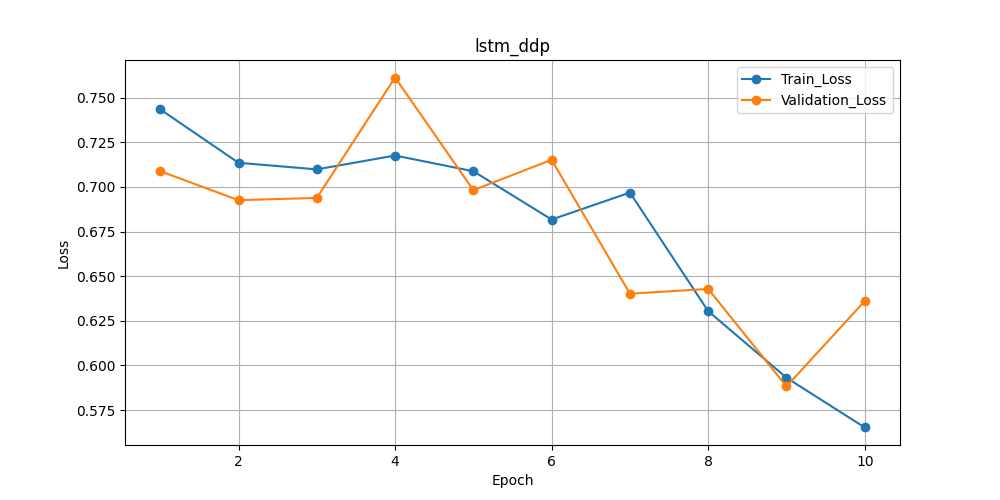
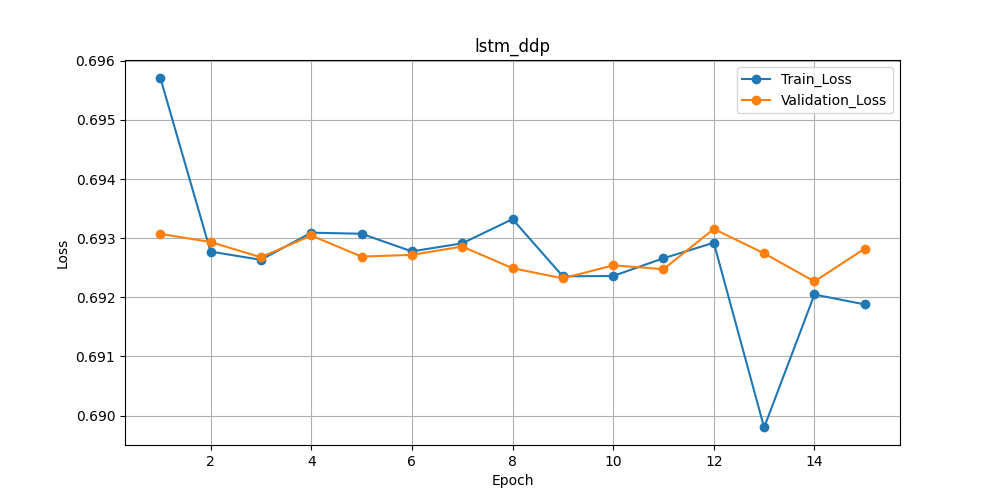
add rmsprop & max_len

diff --git a/2024-03-22/train.py b/2024-03-22/train.py
@@ -10,10 +10,9 @@ from torch.utils.data import DataLoader, DistributedSampler
 
 from torchtext.data.utils import get_tokenizer
 from nltk import word_tokenize
-from torch.nn.utils.rnn import pad_sequence
 
 from torch.nn import CrossEntropyLoss
-from torch.optim import SGD, Adam
+from torch.optim import SGD, Adam, RMSprop
 from torch.optim.lr_scheduler import StepLR, CosineAnnealingLR
 from tqdm import tqdm
 
@@ -24,7 +23,8 @@ parser = argparse.ArgumentParser()
 # -- hyperparameter about data
 parser.add_argument("--data_path", type=str, default="../../datasets/IMDB/")
 parser.add_argument("--tokenizer", type=str, default='nltk')
-parser.add_argument("--vocab_size", type=int, default=40000)
+parser.add_argument("--vocab_size", type=int, default=10000)
+parser.add_argument("--max_len", type=int, default=500)
 parser.add_argument("--ratio", type=float, default=0.2)
 
 # -- hyperparameter about ddp &amp
@@ -64,13 +64,6 @@ def plot_loss(train_losses, val_losses):
     plt.grid()
     plt.savefig(f'./result/{title}.png')
 
-# batch 내의 모든 text 데이터 길이를 동일한 길이로 padding
-def collate_fn(batch):
-    text, label = zip(*batch)
-    padded_text = pad_sequence(text, batch_first=True, padding_value=0)
-    label = torch.tensor(label, dtype=torch.long)
-    return padded_text, label
-
 # tokenizer type 설정
 def tokenizer_type():
     if args.tokenizer == 'torchtext':
@@ -85,6 +78,8 @@ def get_optimizer():
         return SGD
     elif args.optimizer == 'Adam':
         return Adam
+    elif args.optimizer == 'RMSprop':
+        return RMSprop
     else:
         raise ValueError(args.optimizer)
 
@@ -101,7 +96,7 @@ def main():
     device = torch.device("cuda" if torch.cuda.is_available() else "cpu")
     
     # IMDBDataset
-    dataset = IMDBDataset(args.data_path, tokenizer=tokenizer_type(), vocab_size=args.vocab_size)
+    dataset = IMDBDataset(args.data_path, tokenizer=tokenizer_type(), vocab_size=args.vocab_size, max_len=args.max_len)
     train_dataset, val_dataset  = dataset.split_dataset(ratio=args.ratio)
     vocab_size = len(dataset.vocab)
     
@@ -118,9 +113,9 @@ def main():
     
     # define the dataloader
     train_loader, val_loader = DataLoader(train_dataset, batch_size=args.batch_size, sampler=train_sampler, 
-                                          shuffle=(not args.is_ddp), num_workers=4, pin_memory=True, collate_fn=collate_fn), \
+                                          shuffle=(not args.is_ddp), num_workers=4, pin_memory=True), \
                                DataLoader(val_dataset, batch_size=args.batch_size, 
-                                          shuffle=False, num_workers=4, pin_memory=True, collate_fn=collate_fn)
+                                          shuffle=False, num_workers=4, pin_memory=True)
 
     # define the model instance
     net = SentenceClassifier(vocab_size, hidden_size=args.hidden_size, embed_size=args.embed_size, n_layers=args.n_layers, 

diff --git a/2024-03-22/data.py b/2024-03-22/data.py
@@ -1,5 +1,6 @@
 import os
 import torch
+import numpy as np
 import pandas as pd
 
 from collections import Counter
@@ -7,9 +8,8 @@ from torchtext.data.utils import get_tokenizer
 from torch.utils.data import Dataset, random_split
 from torchtext.vocab import build_vocab_from_iterator
 
-
 class IMDBDataset(Dataset):
-    def __init__(self, root, tokenizer, vocab_size, train=True):
+    def __init__(self, root, tokenizer, vocab_size, max_len, train=True):
         super().__init__()
         
         # setting
@@ -31,6 +31,8 @@ class IMDBDataset(Dataset):
             tokenized_sent = self.tokenizer(sent) # 문장을 tokenize
             encoded_sent = self.vocab(tokenized_sent) # vocab을 통해 encoding된 리스트 반환
             text_data.append(encoded_sent)
+        text_data = self._pad_sequence(text_data, max_len)
+        
         self.text_data = text_data
         
         # label 데이터
@@ -63,6 +65,16 @@ class IMDBDataset(Dataset):
         vocab.set_default_index(vocab["<unk>"])
         return vocab
 
+    def _pad_sequence(self, text, max_len):
+        if max_len is None:
+            max_len = max([len(sent) for sent in text])
+        
+        features = np.zeros((len(text), max_len), dtype=int)
+        for i, sent in enumerate(text):
+            if len(sent) != 0:
+                features[i, :len(sent)] = np.array(sent)[:max_len]
+        return features
+    
     # train과 validation 데이터셋을 ratio만큼 분할 (8:2)
     def split_dataset(self, ratio=0.2):
         data_size = len(self)

diff --git a/2024-03-22/test.py b/2024-03-22/test.py
@@ -7,7 +7,7 @@ from torch.utils.data import DataLoader
 
 from data import IMDBDataset
 from net import SentenceClassifier  # 이미 정의된 모델 클래스 사용
-from train import collate_fn, tokenizer_type
+from train import tokenizer_type
 
 parser = argparse.ArgumentParser()
 # -- path setting
@@ -17,7 +17,8 @@ parser.add_argument("--pth_name", type=str, default="lstm_ddp")
 
 # -- data setting
 parser.add_argument("--tokenizer", type=str, default='torchtext')
-parser.add_argument("--vocab_size", type=int, default=40000)
+parser.add_argument("--vocab_size", type=int, default=10000)
+parser.add_argument("--max_len", type=int, default=500)
 
 # -- model setting
 parser.add_argument("--model", type=str, default='gru')
@@ -32,8 +33,8 @@ parser.add_argument("--batch_size", type=int, default=32)
 
 def main():
     device = torch.device("cuda" if torch.cuda.is_available() else "cpu")
-    test_dataset = IMDBDataset(root=args.data_path, train=False, tokenizer=tokenizer_type(), vocab_size=args.vocab_size)
-    test_loader = DataLoader(test_dataset, batch_size=args.batch_size, shuffle=False, collate_fn=collate_fn)
+    test_dataset = IMDBDataset(root=args.data_path, tokenizer=tokenizer_type(), vocab_size=args.vocab_size, max_len=args.max_len, train=False)
+    test_loader = DataLoader(test_dataset, batch_size=args.batch_size, shuffle=False)
 
     weight_path = os.path.join(args.weight_path, args.pth_name + '.pth')
     state_dict = torch.load(weight_path, map_location=device)
